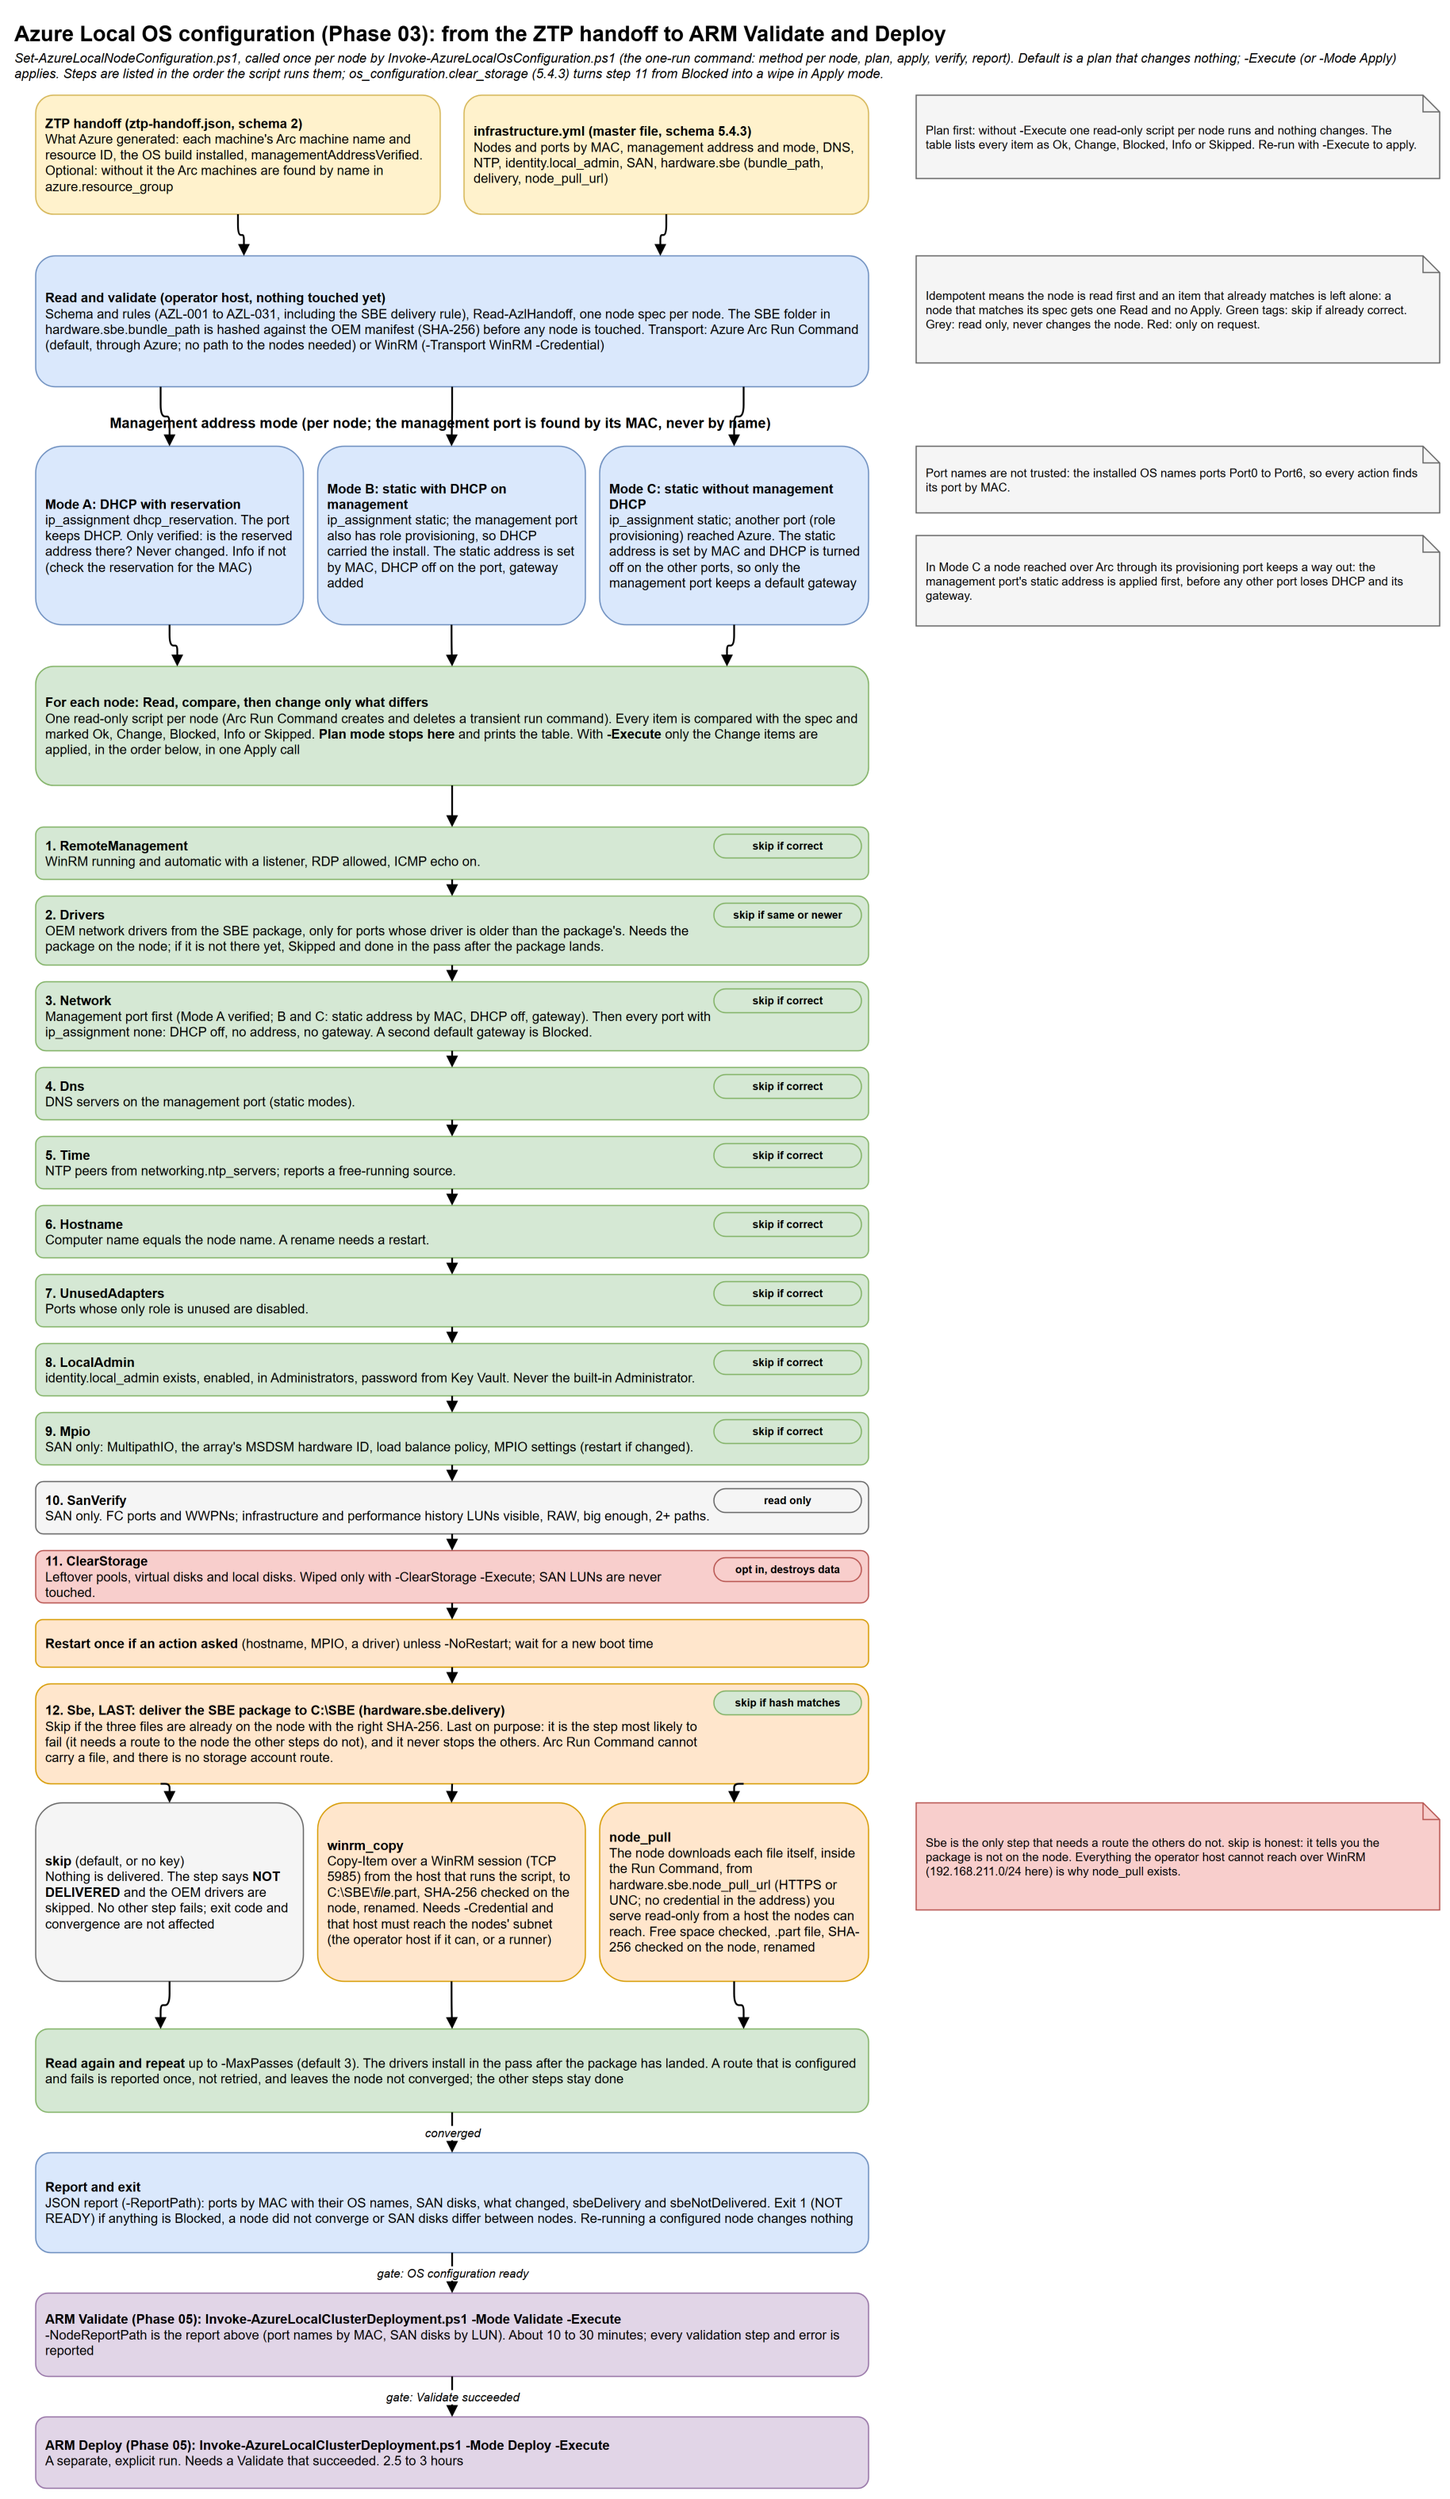
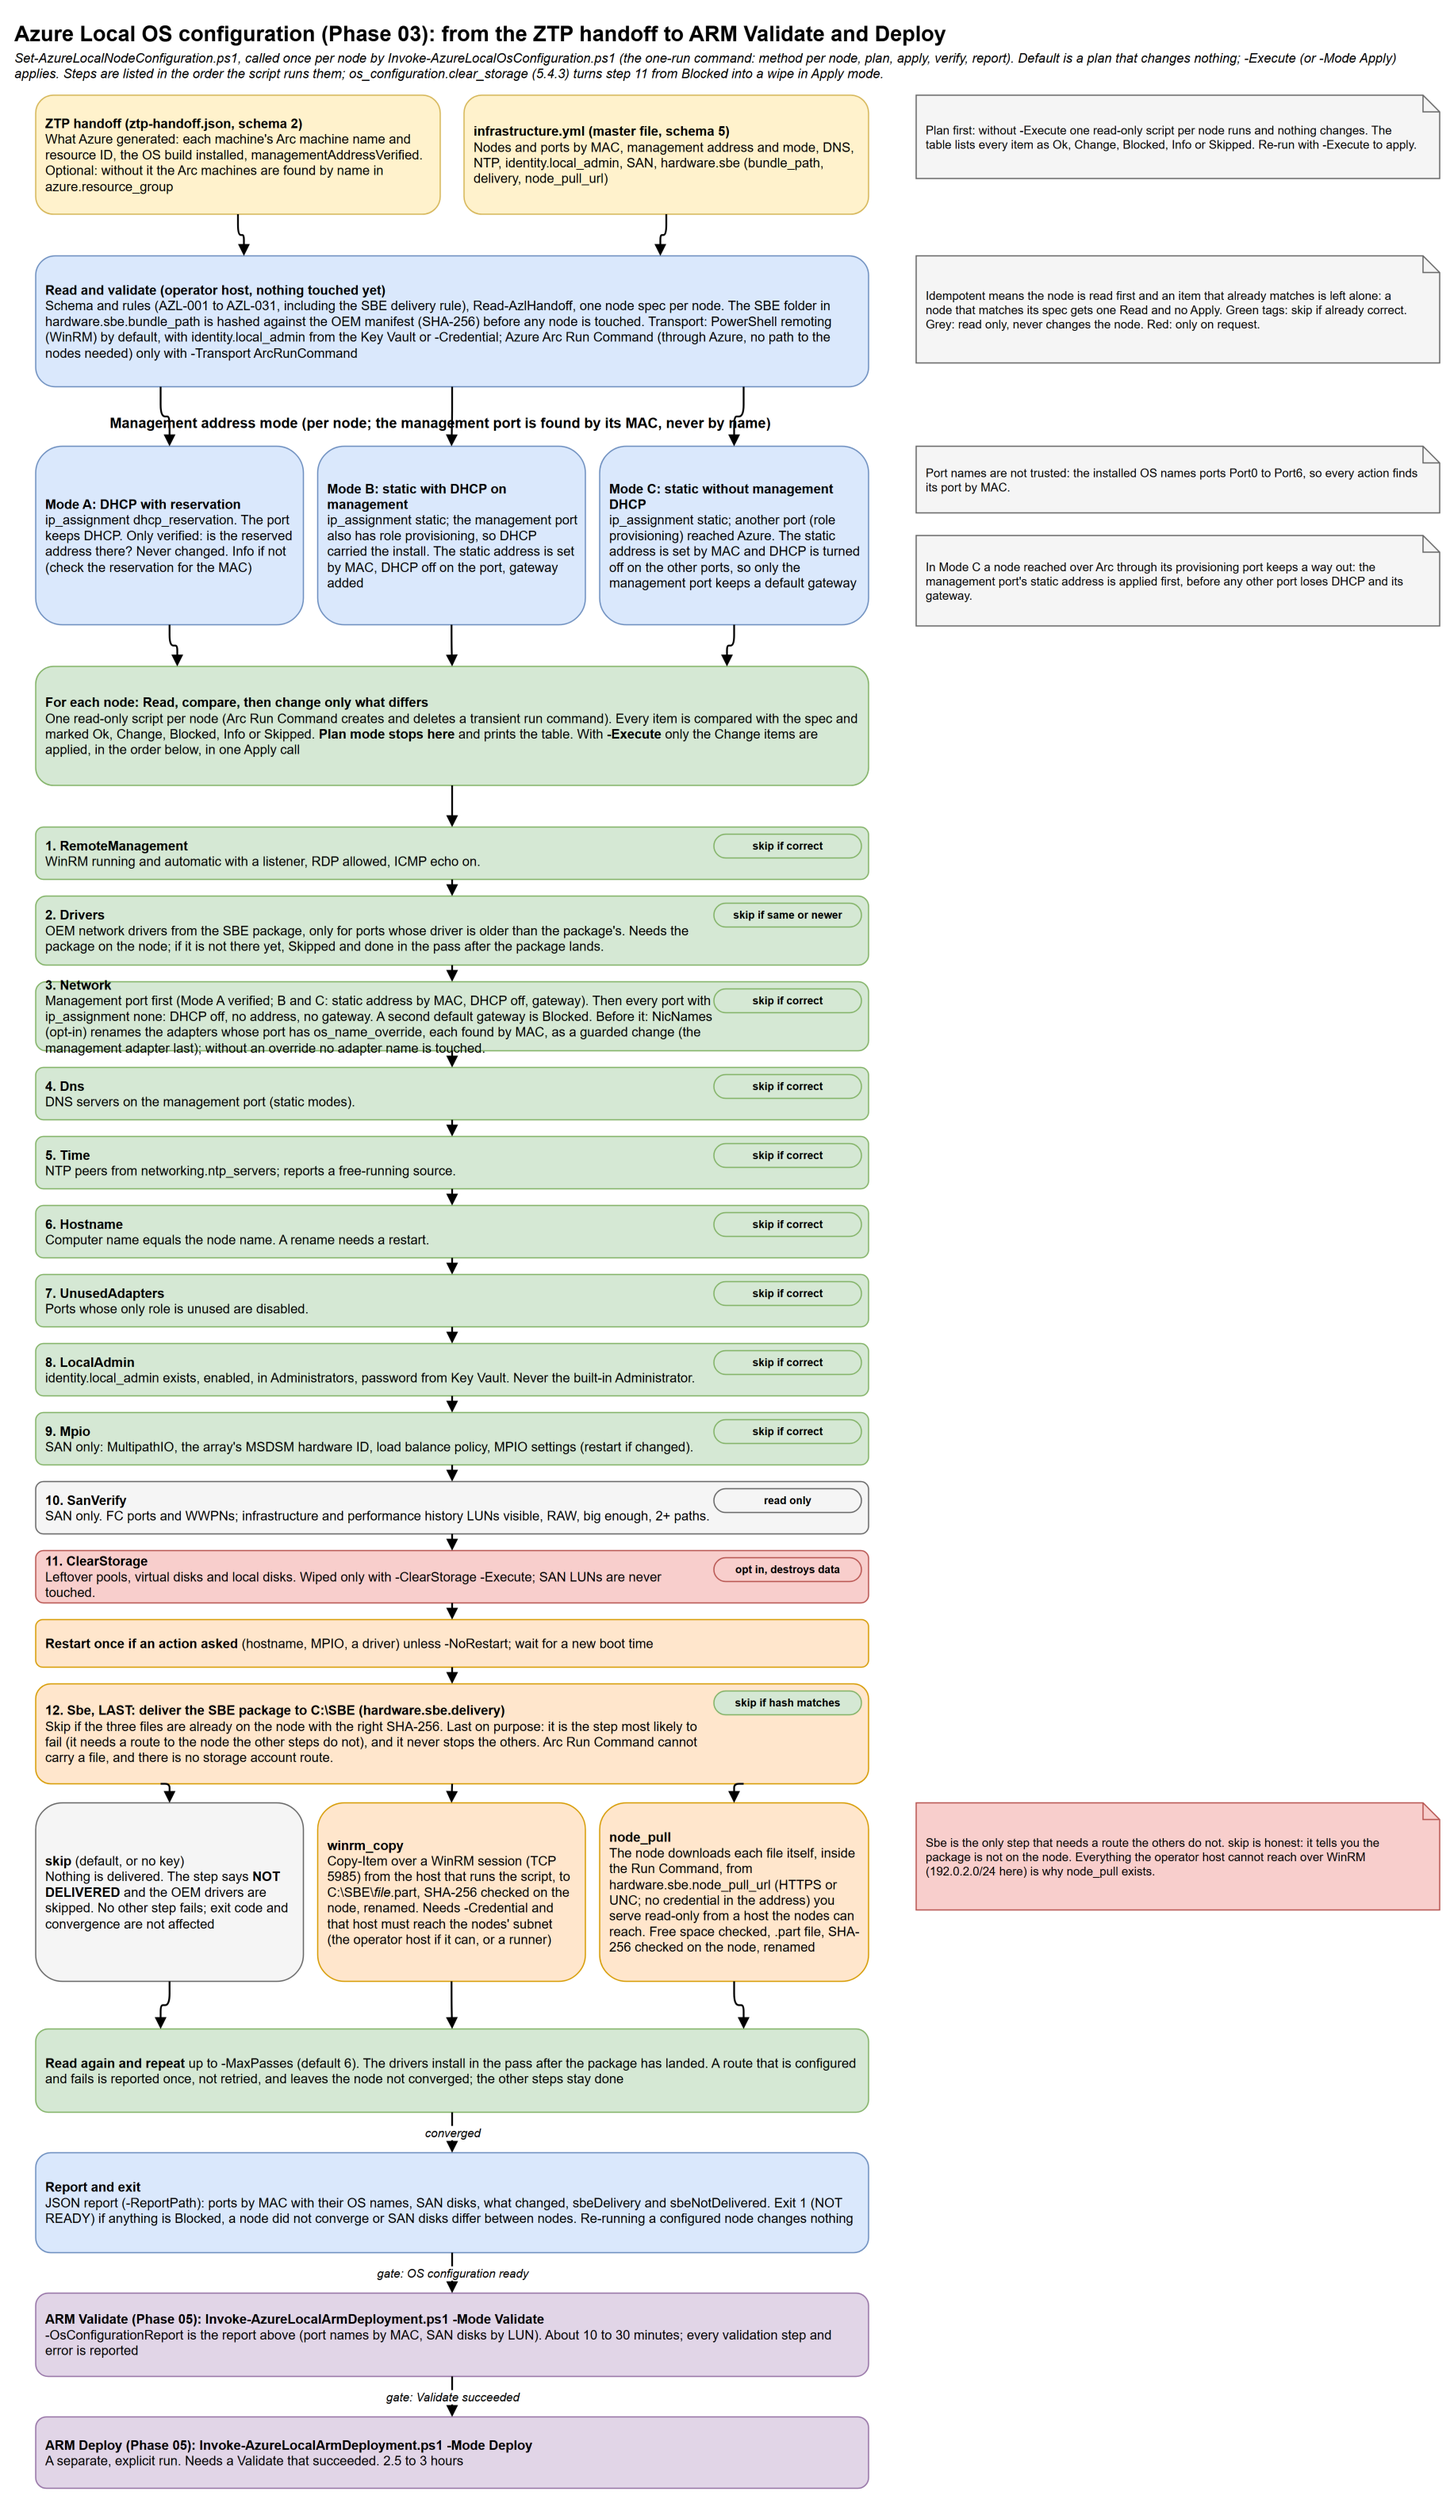
docs(deploy): Phase 05 docs and the OS configuration diagram name Invoke-AzureLocalArmDeployment.ps1 AB#0
os-configuration-and-arm-deployment.md and access-and-connectivity.md pointed at the
earlier, lower-level Invoke-AzureLocalClusterDeployment.ps1 with -Execute and
-NodeReportPath; they now show Invoke-AzureLocalArmDeployment.ps1 with -Mode Plan,
Validate, Deploy or ValidateAndDeploy and -OsConfigurationReport. The diagram's ARM boxes,
transport (WinRM by default, Arc Run Command only with -Transport ArcRunCommand), schema
and -MaxPasses default (6) follow the code; PNG re-exported. The example file header names
the real validator, scripts/common/infrastructure/Test-InfrastructureFile.ps1.

diff --git a/docs/os-configuration-and-arm-deployment.md b/docs/os-configuration-and-arm-deployment.md
@@ -5,7 +5,7 @@ Hardware discovery comes first in the flow: before azurelocal-ztp, it reads each
 This page covers the two steps that run after azurelocal-ztp (or an ISO install) has handed off provisioned machines:
 
 1. **OS configuration** (Phase 03): `scripts/deploy/04-cluster-deployment/phase-03-os-configuration/Invoke-AzureLocalOsConfiguration.ps1` runs it for the whole instance in one go (plan, apply, verify, one report); it calls `Set-AzureLocalNodeConfiguration.ps1` in the same folder once per node, which you can also run on its own
-2. **ARM Validate, then Deploy** (Phase 05): `scripts/deploy/04-cluster-deployment/phase-05-cluster-deployment/Invoke-AzureLocalClusterDeployment.ps1`, with `New-AzureLocalArmParameters.ps1` for the parameter file alone.
+2. **ARM Validate, then Deploy** (Phase 05): `scripts/deploy/04-cluster-deployment/phase-05-cluster-deployment/Invoke-AzureLocalArmDeployment.ps1` (see [arm-deployment-guide.md](arm-deployment-guide.md)), with `New-AzureLocalArmParameters.ps1` for the parameter file alone. `Invoke-AzureLocalClusterDeployment.ps1` in the same folder is the earlier, lower-level script (one mode per run, no report, no resume).
 
 Both read the one environment file, `infrastructure.yml` (schema 5). This page doesn't repeat what each key means: see the [schema-wide variables reference](../config/variables/docs/VARIABLES.md), `config/variables/docs/infrastructure-file.md` and the [variable map](../config/variables/docs/VARIABLE-MAP.md) (which key goes to which OS configuration step, which ARM parameter and which pre-cluster check, and who reads it). What it adds is what must be true before you run, and which of it the code checks.
 
@@ -24,11 +24,11 @@ In the tables, **Checked** says what happens if the item is missing:
 | OS configuration | `Set-AzureLocalNodeConfiguration.ps1 -InfrastructureFile ./infrastructure.yml -HandoffFile ./ztp-handoff.json` | change the nodes. Re-running on a configured node changes nothing. |
 | OS configuration, the whole instance in one run | `Invoke-AzureLocalOsConfiguration.ps1 -InfrastructureFile ./infrastructure.yml -HandoffPath ./ztp-state -Mode Plan` | use `-Mode Apply`. See [Run it in one go](#run-it-in-one-go). Also runs unchanged in GitHub Actions and GitLab CI. |
 | ARM parameters only | `New-AzureLocalArmParameters.ps1 -InfrastructureFile ./infrastructure.yml -HandoffFile ./ztp-handoff.json -NodeReportPath <report>` | (reads files only; always safe) |
-| ARM Validate | `Invoke-AzureLocalClusterDeployment.ps1 -InfrastructureFile ./infrastructure.yml -HandoffFile ./ztp-handoff.json -NodeReportPath <report>` | submit `deploymentMode Validate` to the resource group, wait, report the validation steps. |
-| ARM Deploy | the same with `-Mode Deploy` | submit the real deployment. A separate, explicit run; needs a successful Validate. |
-| **ARM Validate and Deploy, automated** | `Invoke-AzureLocalArmDeployment.ps1 -InfrastructureFile ./infrastructure.yml -OsConfigurationReport <report directory> -Mode Plan` | `-Mode Validate`, then `-Mode Deploy` (or `ValidateAndDeploy`): preconditions, idempotent re-runs, resume, approval gate, event feed, exit codes 0, 1, 2. Jump server or pipeline. See [arm-deployment-guide.md](arm-deployment-guide.md). |
+| ARM Validate | `Invoke-AzureLocalArmDeployment.ps1 -InfrastructureFile ./infrastructure.yml -OsConfigurationReport <report directory> -Mode Plan` (generates and checks the parameters, runs the read-only preconditions) | use `-Mode Validate`: submit `deploymentMode Validate` to the resource group, wait, report the validation steps. |
+| ARM Deploy | the same | use `-Mode Deploy`: submit the real deployment. A separate, explicit run; needs a successful Validate of the same parameters. `-Resume` picks up a running deployment. |
+| ARM Validate and Deploy in one run | the same | use `-Mode ValidateAndDeploy`: stops after Validate for approval (`-ApprovalMode stop`, or `deployment.approval`) unless the approval mode is `none`. Exit codes 0, 1, 2. Jump server or pipeline. See [arm-deployment-guide.md](arm-deployment-guide.md). |
 
-The OS configuration plan reads each node through PowerShell remoting (WinRM) from a host that reaches the node's management address; nothing on the node changes. Azure Arc Run Command is the option you ask for with `-Transport ArcRunCommand` (see [Choosing the transport](#choosing-the-transport)). `-SpecOnly` reads no node and no Azure resource: it prints what each node should look like. The ARM plan (no `-Execute`) reads files only, unless you add `-Preflight`.
+The OS configuration plan reads each node through PowerShell remoting (WinRM) from a host that reaches the node's management address; nothing on the node changes. Azure Arc Run Command is the option you ask for with `-Transport ArcRunCommand` (see [Choosing the transport](#choosing-the-transport)). `-SpecOnly` reads no node and no Azure resource: it prints what each node should look like. The ARM plan (`-Mode Plan`) changes nothing; with `-Offline` it does not touch Azure at all.
 
 Order: ZTP hand-off (or an ISO install), OS configuration (`Invoke-AzureLocalOsConfiguration.ps1 -Mode Plan`, review the plan and the wipe list, then `-Mode Apply`; it writes a JSON report), the pre-cluster verification gate (a read-only check that every machine is ready for a cluster; <!-- TODO(gate): link its page when the branch feat/pre-cluster-verification-gate is in main -->documented when it lands), then ARM Validate, review, then ARM Deploy, then day 2.
 

diff --git a/docs/access-and-connectivity.md b/docs/access-and-connectivity.md
@@ -10,7 +10,7 @@ The route has four tools, run in this order:
 
 1. **ZTP** ([azurelocal-ztp](https://github.com/AzureLocal/azurelocal-ztp)): provisions the machines from their BMCs and ends at the Handoff.
 2. **OS configuration** (`Set-AzureLocalNodeConfiguration.ps1`, Phase 03): configures each node's OS.
-3. **ARM Validate, then Deploy** (`Invoke-AzureLocalClusterDeployment.ps1`, Phase 05): deploys the cluster.
+3. **ARM Validate, then Deploy** (`Invoke-AzureLocalArmDeployment.ps1`, Phase 05): deploys the cluster.
 4. **Sonar** ([azurelocal-sonar](https://github.com/AzureLocal/azurelocal-sonar)): read-only monitor, run beside any of the above.
 
 A fifth row, **the pipeline runner**, is not a tool: it is the host that runs the others when you automate the route. See [Running from a pipeline runner in Azure](#running-from-a-pipeline-runner-in-azure).
